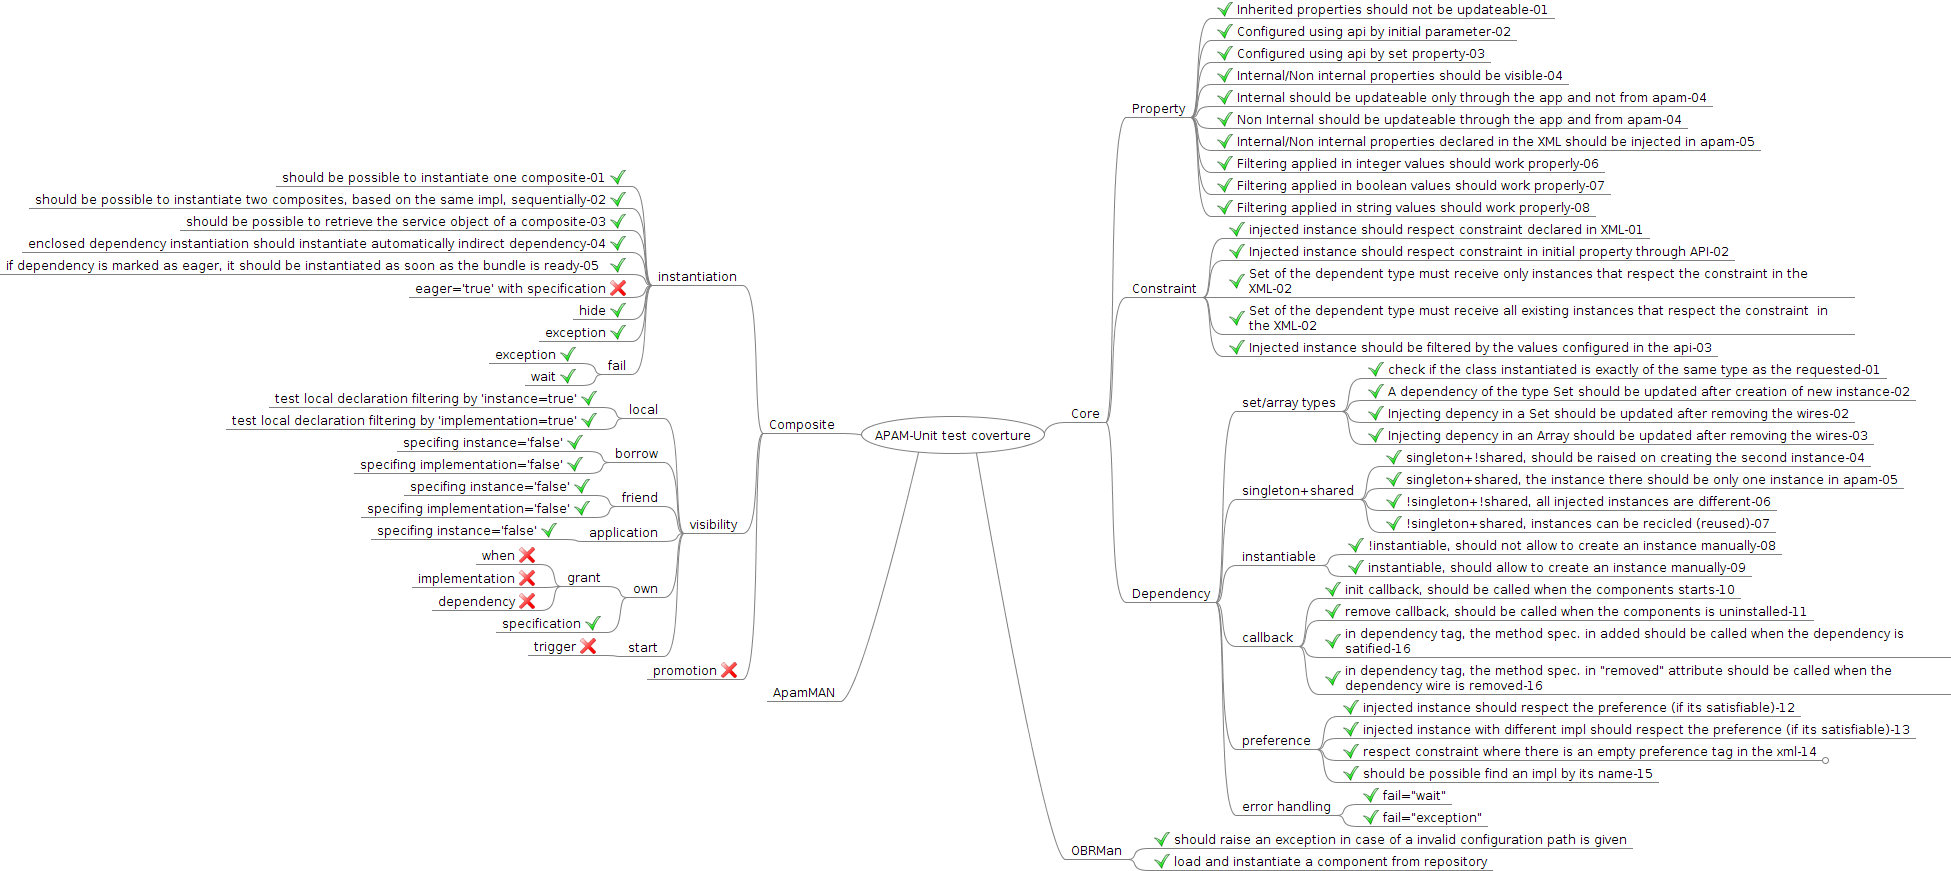
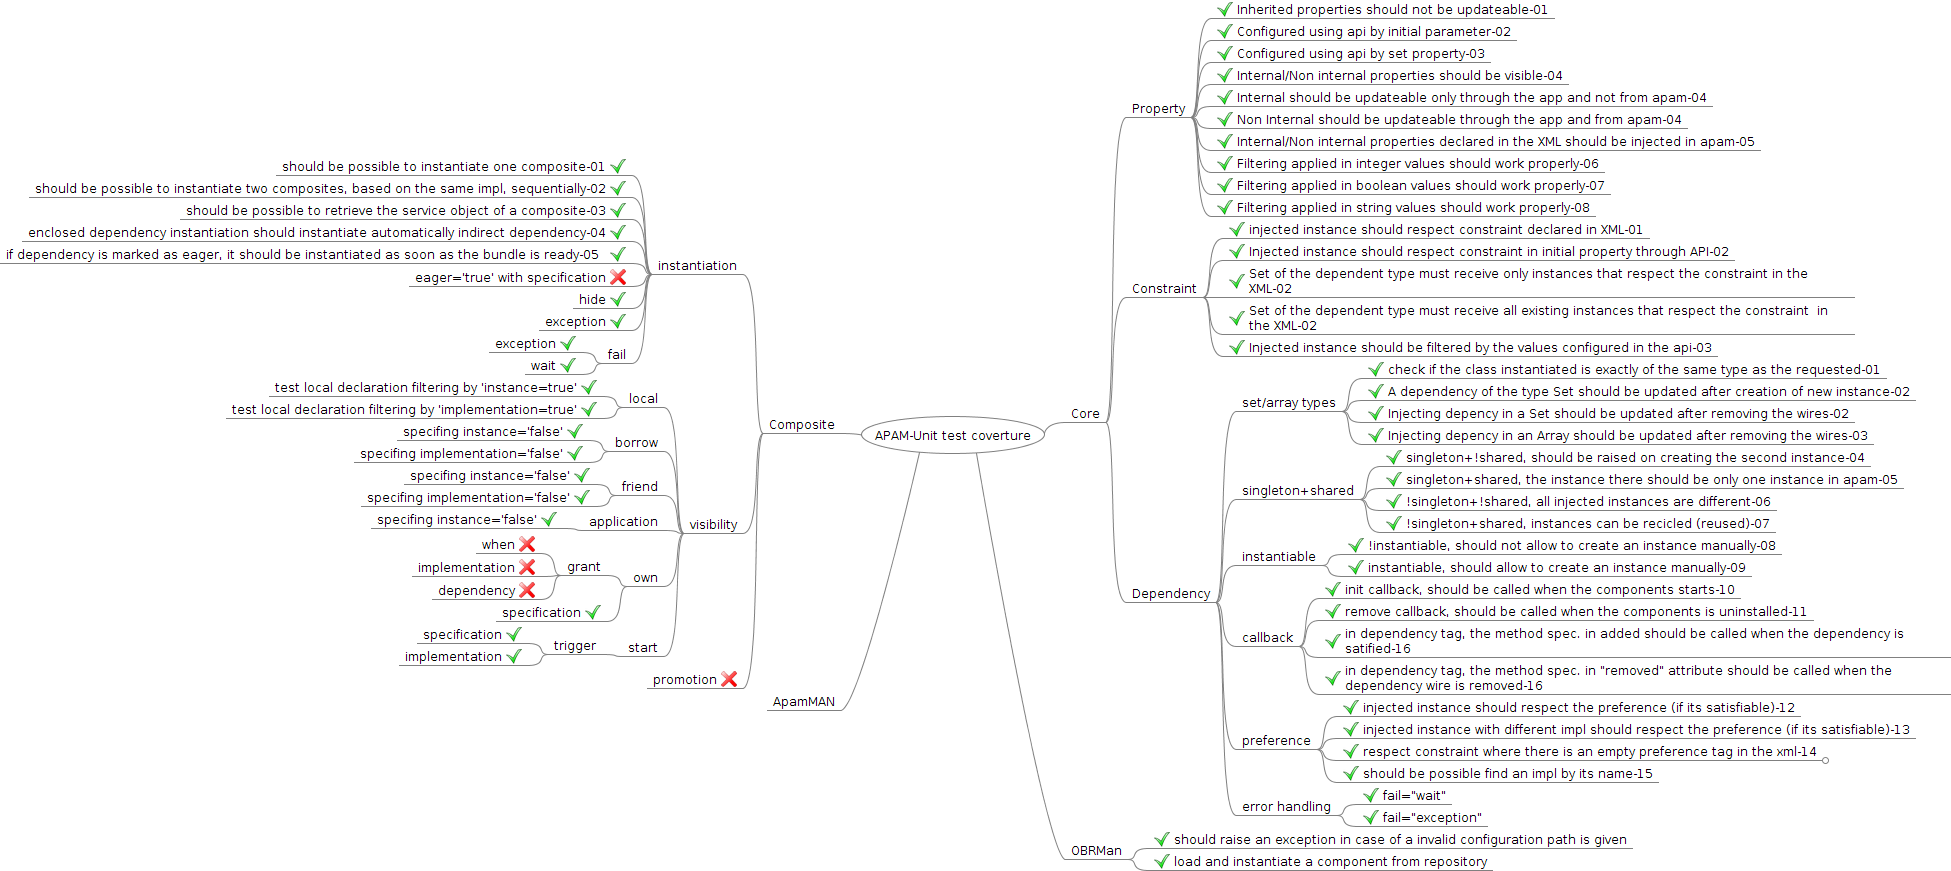
adding tests for start+trigger

Changed region(s): [[0.0, 0.186, 0.3998, 0.775], [0.3383, 0.744, 0.4305, 0.837]]

diff --git a/tests/services/pax-test/src/test/java/fr/imag/adele/apam/test/testcases/DynamanDependentTest.java b/tests/services/pax-test/src/test/java/fr/imag/adele/apam/test/testcases/DynamanDependentTest.java
@@ -302,7 +302,70 @@ public class DynamanDependentTest extends ExtensionAbstract {
 		Assert.assertTrue(message, instancesOfImplementation.size() == 1);
 
 	}
+	
+	@Test
+	public void CompositeContentMngtStartTriggerBySpecification(){
+		auxListInstances("INSTANCE-t1-");
+		
+		String checkingFor="specification";
+		
+		CompositeType composite=(CompositeType)CST.apamResolver.findImplByName(
+				null, "composite-a-start-by-"+checkingFor);
+		Composite compositeInstance=(Composite)composite.createInstance(null, null);
+		
+		apam.waitForIt(Constants.CONST_WAIT_TIME);
+		
+		Implementation trigger=CST.apamResolver.findImplByName(
+				null, "group-a-start-trigger");
+		
+		Instance triggerInstance=trigger.createInstance(compositeInstance, null);
+		
+		Assert.assertTrue(triggerInstance!=null);
+		
+		List<Instance> instancesOfB=auxLookForInstanceOf("fr.imag.adele.apam.pax.test.impl.S3GroupBImpl");
+		
+		apam.waitForIt(Constants.CONST_WAIT_TIME);
+		
+		auxListInstances("INSTANCE-t2-");
+		
+		String messageTemplate="Its possible to create an instance according to the appearance of a certain %s by using <start/> element with <trigger/>. The expected instance was not created when the trigger was launched.";
+		String message=String.format(messageTemplate, checkingFor);
+		Assert.assertTrue(message,instancesOfB.size()==1);
+		
+	}
+	
+	@Test
+	public void CompositeContentMngtStartTriggerByImplementation(){
+		auxListInstances("INSTANCE-t1-");
+		
+		String checkingFor="implementation";
+		
+		CompositeType composite=(CompositeType)CST.apamResolver.findImplByName(
+				null, "composite-a-start-by-"+checkingFor);
+		Composite compositeInstance=(Composite)composite.createInstance(null, null);
+		
+		apam.waitForIt(Constants.CONST_WAIT_TIME);
+		
+		Implementation trigger=CST.apamResolver.findImplByName(
+				null, "group-a-start-trigger");
+		
+		Instance triggerInstance=trigger.createInstance(compositeInstance, null);
+		
+		Assert.assertTrue(triggerInstance!=null);
+		
+		List<Instance> instancesOfB=auxLookForInstanceOf("fr.imag.adele.apam.pax.test.impl.S3GroupBImpl");
+		
+		apam.waitForIt(Constants.CONST_WAIT_TIME);
+		
+		auxListInstances("INSTANCE-t2-");
+		
+		String messageTemplate="Its possible to create an instance according to the appearance of a certain %s by using <start/> element with <trigger/>. The expected instance was not created when the trigger was launched.";
+		String message=String.format(messageTemplate, checkingFor);
+		Assert.assertTrue(message,instancesOfB.size()==1);
+		
+	}	
 
+	
 
 
 }

diff --git a/documentations/technical/test-coverture/APAM-UnitTest-Coverture-OnFreeMindApp.mm b/documentations/technical/test-coverture/APAM-UnitTest-Coverture-OnFreeMindApp.mm
@@ -211,8 +211,13 @@
 </node>
 </node>
 <node CREATED="1353942099737" ID="ID_324659060" MODIFIED="1354189660842" TEXT="start">
-<node CREATED="1353942275194" ID="ID_535914399" MODIFIED="1353942307053" TEXT="trigger">
-<icon BUILTIN="button_cancel"/>
+<node CREATED="1353942275194" ID="ID_535914399" MODIFIED="1354198894177" TEXT="trigger">
+<node CREATED="1354198898994" ID="ID_498230371" MODIFIED="1354201080249" TEXT="specification">
+<icon BUILTIN="button_ok"/>
+</node>
+<node CREATED="1354198903458" ID="ID_1062819824" MODIFIED="1354201085151" TEXT="implementation">
+<icon BUILTIN="button_ok"/>
+</node>
 </node>
 </node>
 </node>
